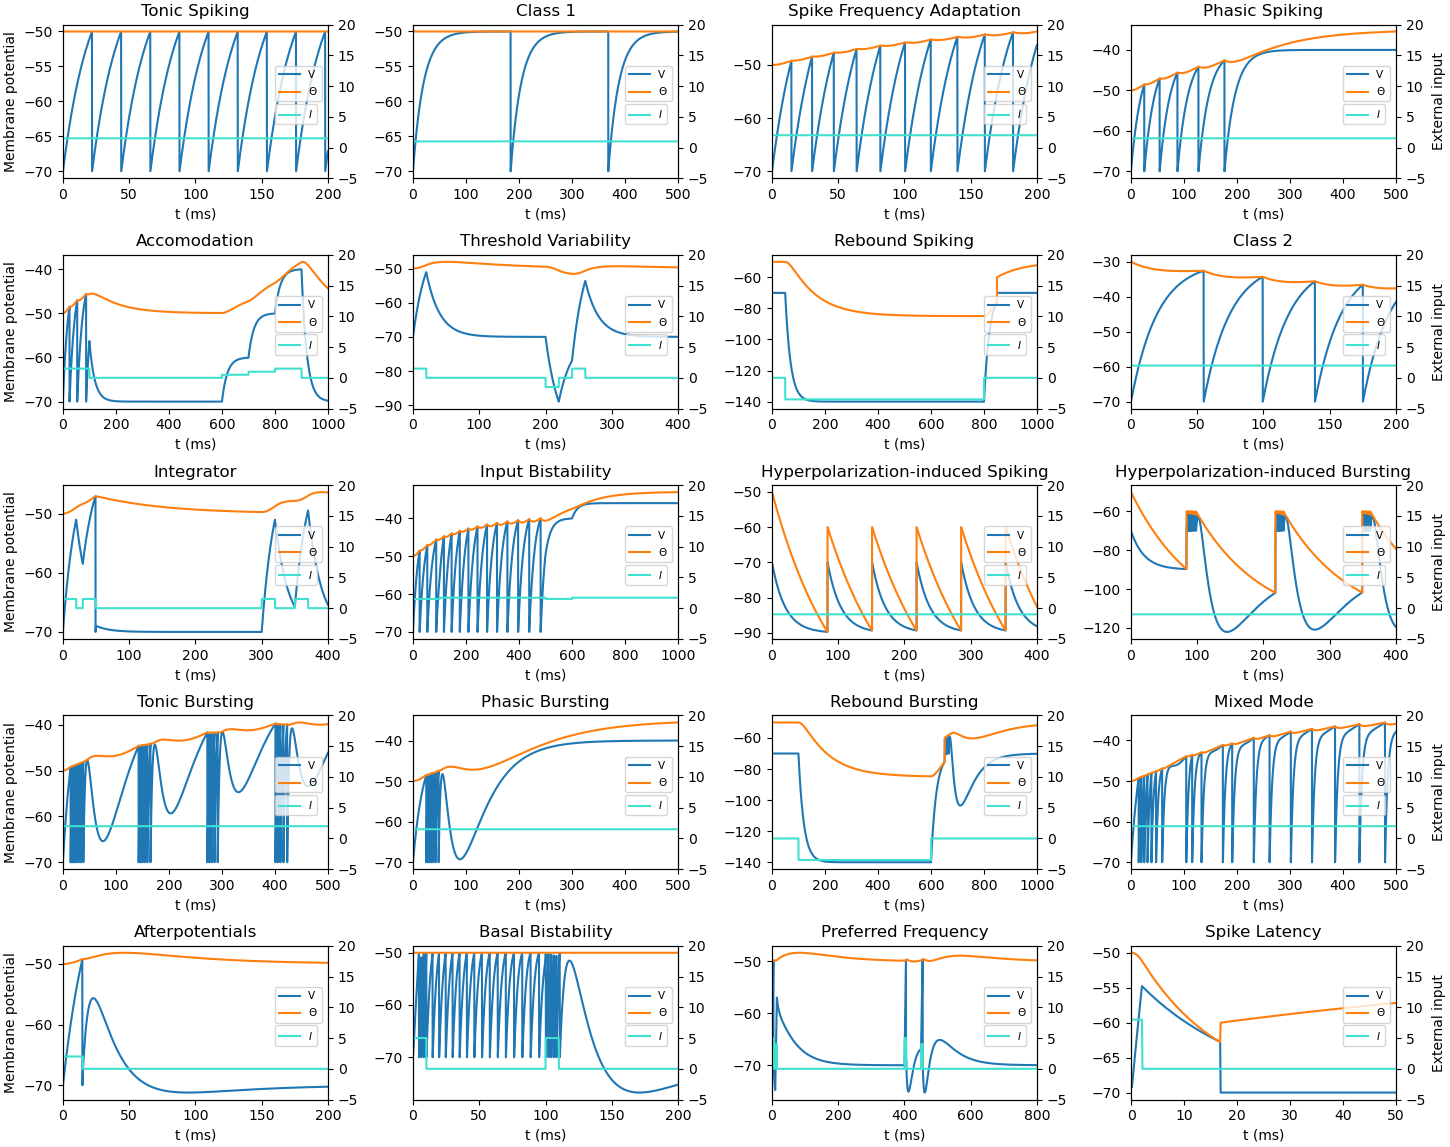
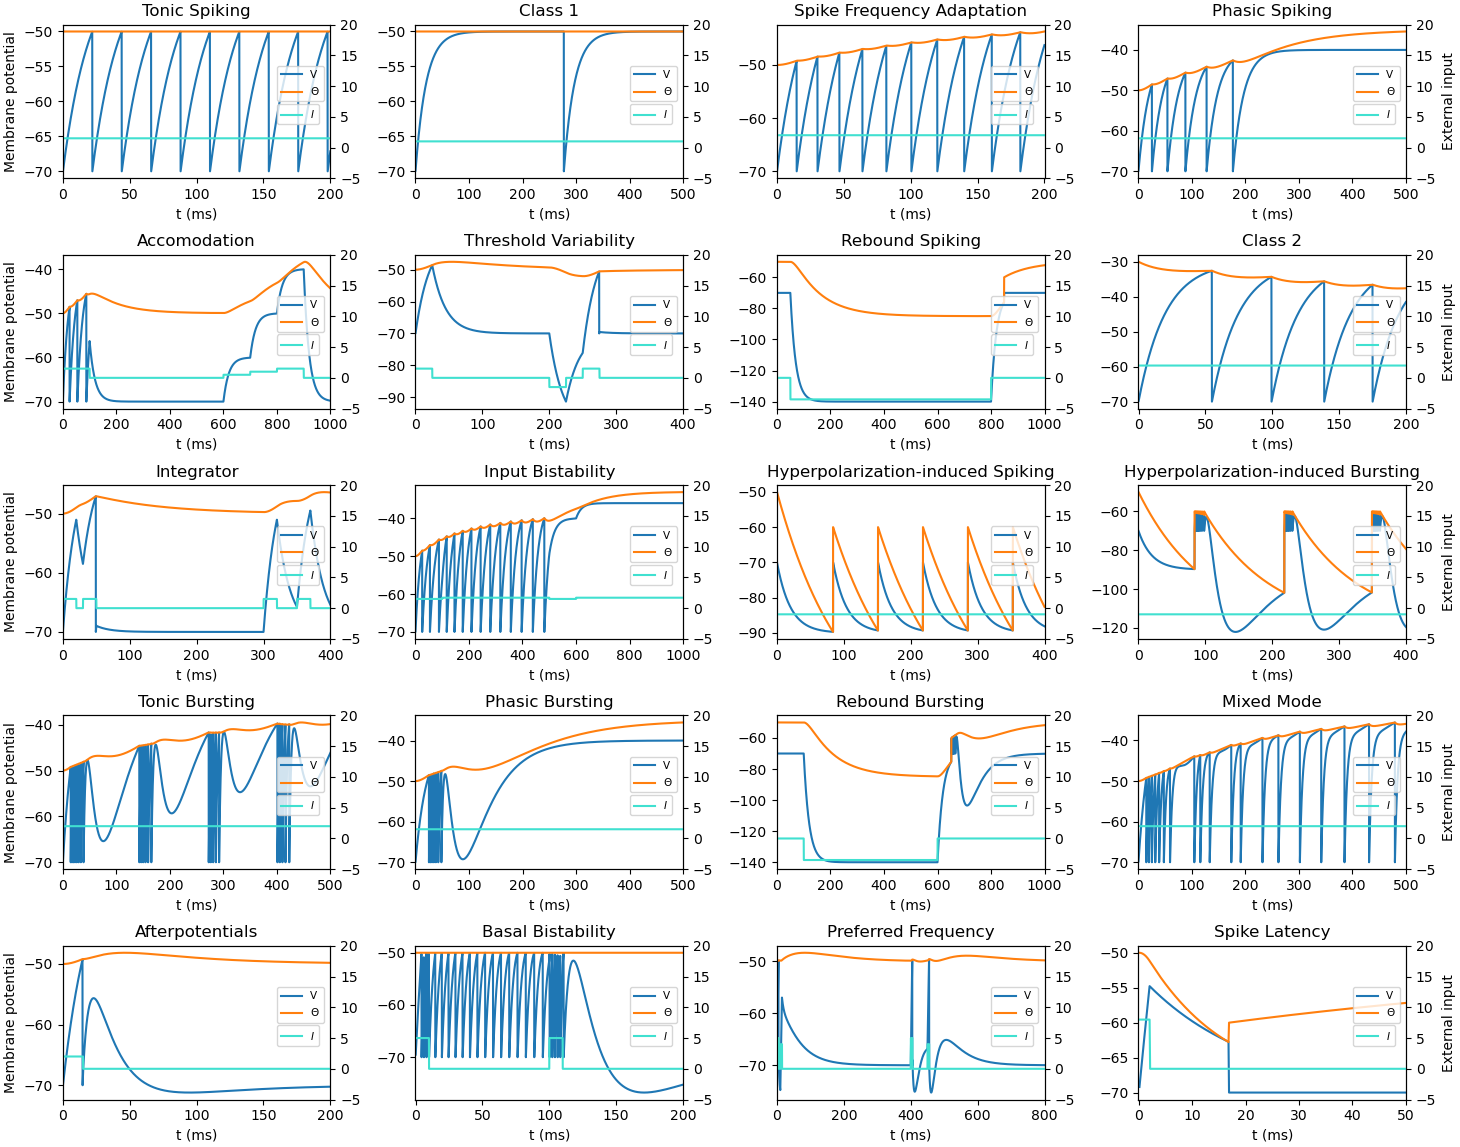
update the GIF model

diff --git a/model_analysis/GIF_patterns.py b/model_analysis/GIF_patterns.py
@@ -4,6 +4,8 @@ import matplotlib.pyplot as plt
 
 from neuron_models.GIF_model import GIF
 
+bp.math.enable_x64()
+
 
 def subplot(i, neu, title=None, input=('input', 1.), dur=200):
   plt.subplot(3, 3, i)
@@ -48,7 +50,7 @@ Iext, duration = bp.inputs.constant_current([(1.5, 200.)])
 neu = GIF(1)
 run(0, neu, duration, Iext, 'Tonic Spiking')
 
-Iext, duration = bp.inputs.constant_current([(1.+1e-4, 500.)])
+Iext, duration = bp.inputs.constant_current([(1.+1e-6, 500.)])
 neu = GIF(1)
 run(1, neu, duration, Iext, 'Class 1')
 
@@ -65,8 +67,8 @@ Iext, duration = bp.inputs.constant_current([(1.5, 100.), (0, 500.), (0.5, 100.)
 neu = GIF(1, a=0.005)
 run(4, neu, duration, Iext, 'Accomodation')
 
-Iext, duration = bp.inputs.constant_current([(1.5, 20.), (0., 180.), (-1.5, 20.),
-                                             (0., 20.), (1.5, 20.), (0., 140.)])
+Iext, duration = bp.inputs.constant_current([(1.5, 25.), (0., 175.), (-1.5, 25.),
+                                             (0., 25.), (1.5, 25.), (0., 125.)])
 neu = GIF(1, a=0.005)
 run(5, neu, duration, Iext, 'Threshold Variability')
 
